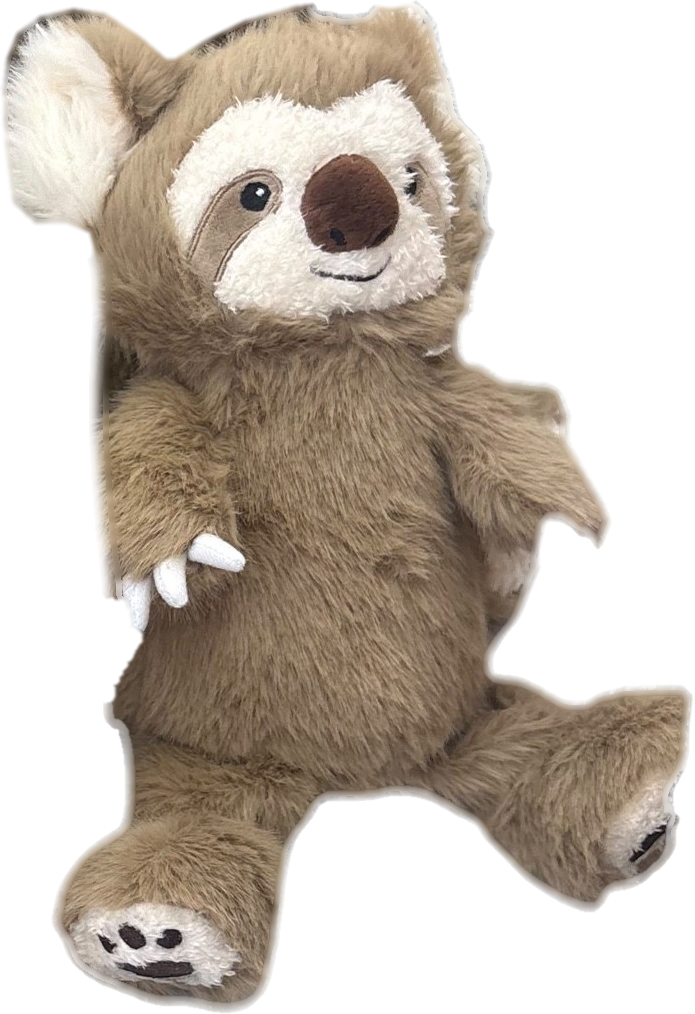
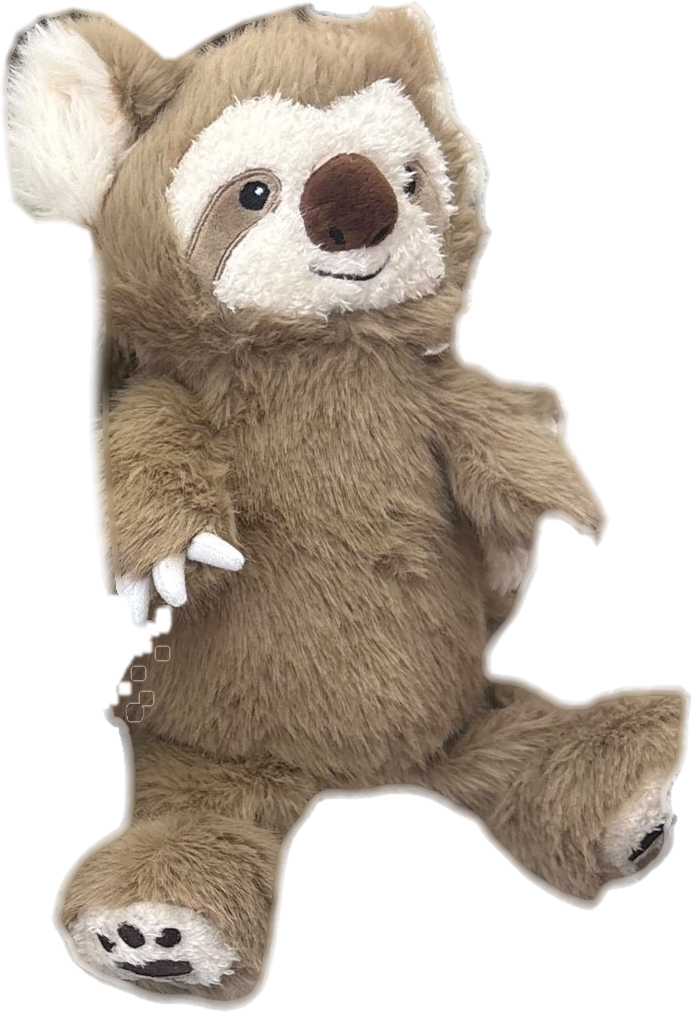
WIP: explainer and winner-poster fixes in progress
Claude-Session: https://claude.ai/code/session_017t7qqqwgbjwGsC5g98EGiq

diff --git a/sensory-companions/assets/clean/cutouts.py b/sensory-companions/assets/clean/cutouts.py
@@ -46,8 +46,8 @@ HUE_ZONES={         # neighbour-fur remnants to knock out: (rect, kind)
  'redpanda-pair': [((600,100,790,570),'notpanda')],    # strip of blue bag / grey counter between the mane and the TOP seam
  'redpanda-small': [((600,100,790,570),'notpanda')],
 }
-ERODE=3             # px of extra alpha erosion: the segmenter's matte kept a 2-3 px rim of counter/background inside the opaque area
-MIN_ISLAND=400
+ERODE=4             # px of extra alpha erosion: the segmenter's matte kept a 2-3 px rim of counter/background inside the opaque area
+MIN_ISLAND=1500   # anything detached and smaller than this is a fleck of counter or neighbour fur
 def rect_mask(rects):
     m=np.zeros((Ht,Wd),bool)
     for x0,y0,x1,y1 in rects: m[y0:y1,x0:x1]=True
@@ -78,7 +78,7 @@ def cut(name,poly):
     # 1) neighbour-fur remnants inside the silhouette
     for rect,kind in HUE_ZONES.get(name,[]):
         km=hue_mask(kind)&rect_mask([rect])
-        km=ndi.binary_dilation(ndi.binary_opening(km,iterations=1),iterations=2)
+        km=ndi.binary_dilation(ndi.binary_closing(km,iterations=1),iterations=3)
         a=a*(1-ndi.gaussian_filter(km.astype(np.float32),1.0))
     # 2) erode ERODE px (kills the grey background rim inside the matte), then smooth the ramp
     a=ndi.grey_erosion(a,size=(2*ERODE+1,2*ERODE+1))
@@ -92,8 +92,8 @@ def cut(name,poly):
     a=np.where(hk[hl]&holes,1.0,a)
     # 4) de-fringe: partial pixels take the colour of nearby opaque fur
     out=rgb.copy()
-    M=(a>=0.985).astype(np.float32)
-    num=np.stack([ndi.gaussian_filter(rgb[...,i]*M,3.0) for i in range(3)],2); den=ndi.gaussian_filter(M,3.0)[...,None]
+    M=ndi.binary_erosion(a>=0.985,iterations=2).astype(np.float32)   # colour source: fur at least 2 px inside the opaque area
+    num=np.stack([ndi.gaussian_filter(rgb[...,i]*M,4.0) for i in range(3)],2); den=ndi.gaussian_filter(M,4.0)[...,None]
     fill=num/np.maximum(den,1e-4)
     part=((a>0)&(a<0.985)&(den[...,0]>0.02))[...,None]
     out[...,:3]=np.where(part,fill,rgb[...,:3])
